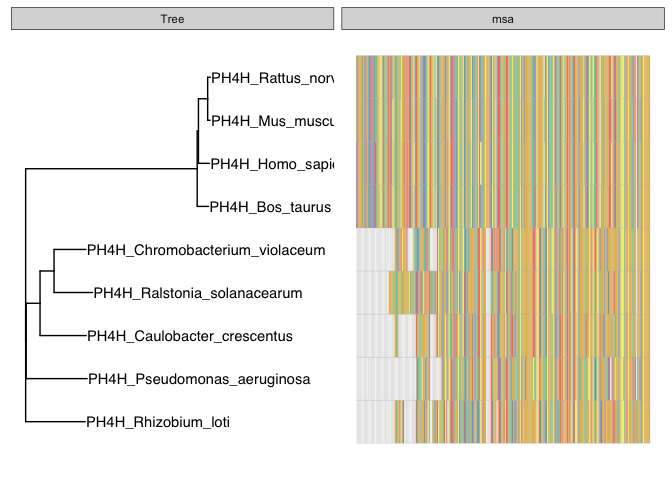
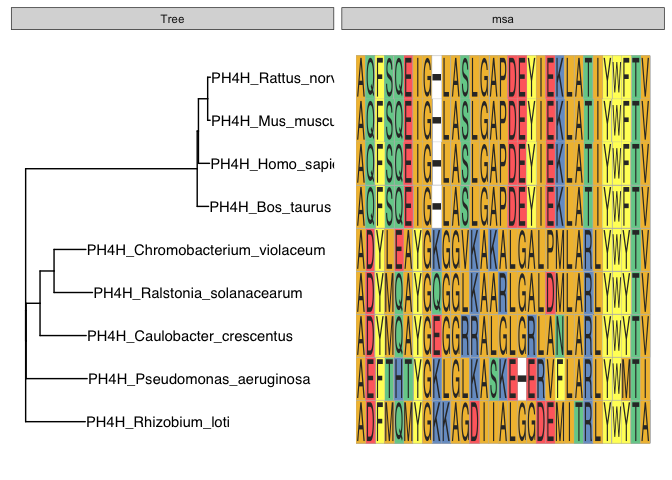
ggmsa fixes

diff --git a/Rscripts/mult_seq_alns/ggmsa_tests.md b/Rscripts/mult_seq_alns/ggmsa_tests.md
@@ -37,11 +37,14 @@ plain_tree_plot <- ggtree(tree) +
     geom_tiplab() #tree
 
 ## now use ggmsa function tidy_msa() to prep a chunk of the alignment. This returns a data.frame, three columns: seqname, position and amino acid
-data <- tidy_msa(prot_aln, start = 100, end = 350)  
+prot_aln_DF <- tidy_msa(prot_aln, start = 300, end = 330)  
 
 ## add alignment to the tree using geom_msa (a ggmsa function)
-plain_tree_plot + geom_facet(geom = geom_msa, data = data,
-               panel = 'msa', font = NULL,
+plain_tree_plot + 
+    geom_facet(geom = geom_msa, 
+               data = prot_aln_DF,
+               panel = 'msa', 
+               ## font = NULL, use NULL if we're zoomed way out and only want to show colors
                color = "Chemistry_AA")  +
     xlim_tree(1)
 ```
@@ -59,14 +62,12 @@ than just using colors
 ``` r
 msaplot(plain_tree_plot,
         prot_aln_file,
-        offset=1, width=3, window=c(100,130))
+        offset=2, width=3, window=c(200,230))
 ```
 
 ![](ggmsa_tests_files/figure-gfm/unnamed-chunk-3-1.png)<!-- -->
 
-# Playing around with the sizing of the plot
-
-I had some trouble with this - played around until I found a solution
+# Add logo plot using geom_seqlogo
 
 ``` r
 # example from here: https://github.com/YuLab-SMU/ggmsa/issues/56
@@ -81,10 +82,15 @@ ggmsa(dna_aln, seq_name = F,
 
 ![](ggmsa_tests_files/figure-gfm/unnamed-chunk-4-1.png)<!-- -->
 
+# Playing around with the sizing of the plot
+
+I had some trouble with resizing to change dimensions when saving
+files - played around until I found a solution
+
 ``` r
 test_msa_plot <- ggmsa(dna_aln, seq_name = F,
-           char_width = 0.5,
-           font = NULL, border = NA, color = "Chemistry_NT") +
+                       char_width = 0.5,
+                       font = NULL, border = NA, color = "Chemistry_NT") +
     facet_msa(field=80) +
     geom_seqlogo(color = "Chemistry_NT")
 ```
